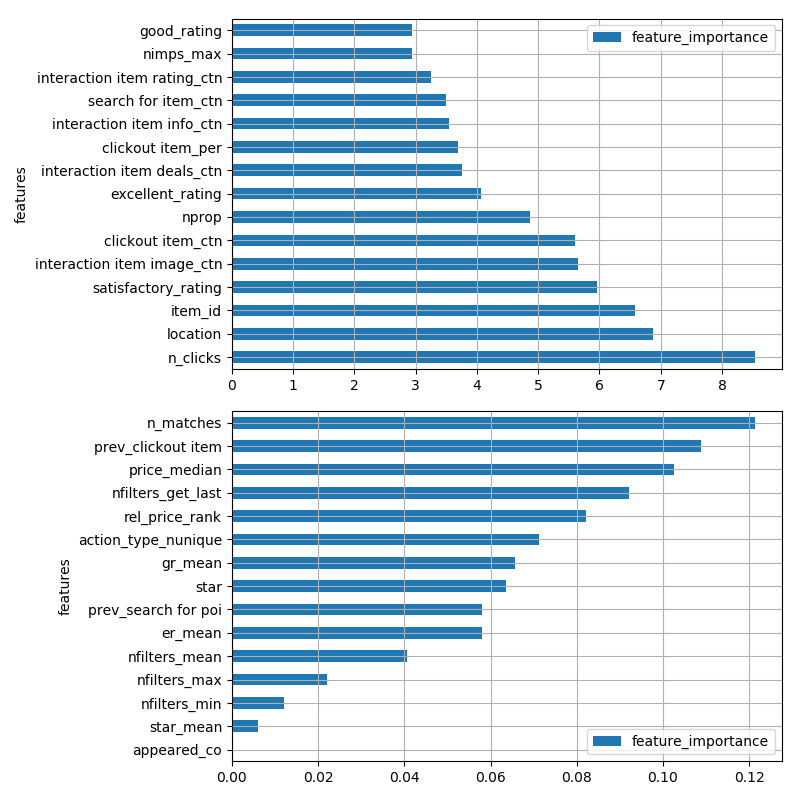
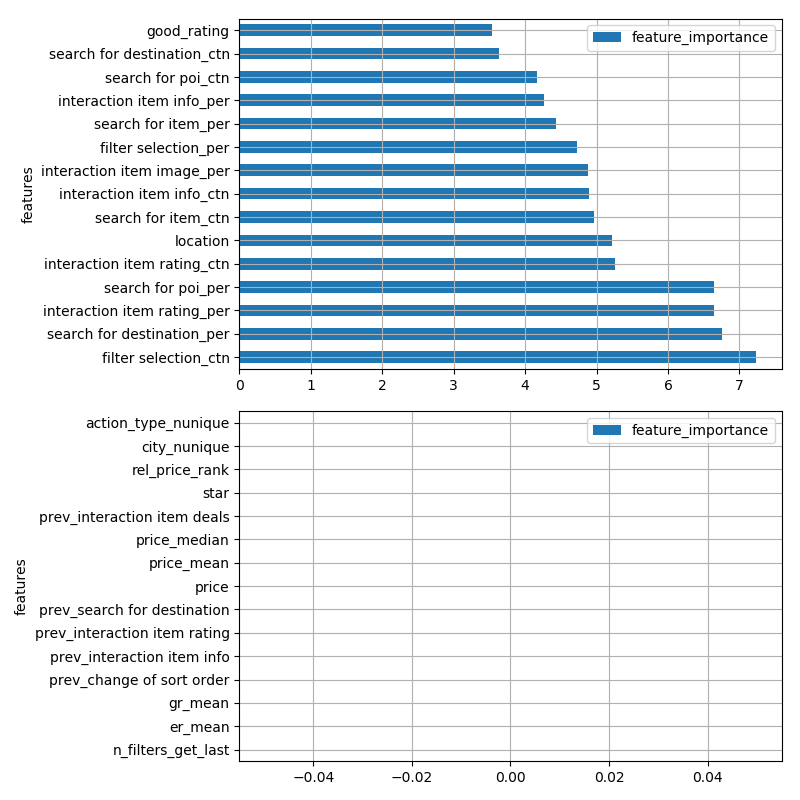
train

diff --git a/train.py b/train.py
@@ -108,6 +108,14 @@ def run_pipeline():
     fprint('Load train data')
     train = pd.read_hdf('./data/train.h5', 'train')
 
+    values = {'reference_second_last': -1, 'action_type_second_last': -1}
+    train.fillna(value=values, inplace=True)
+
+    # drop columns
+    # remove_cols = ['ts', 'clickout item_per']
+    # train.drop(remove_cols, axis=1, inplace=True)
+    del train['clickout item_per']
+
     train_val_split = 0.1
     # split out validation from the latest
     sort_ts = train.sort_values(by='ts')['ts']
@@ -118,13 +126,18 @@ def run_pipeline():
     val_mask = train.index.isin(val_sids)
     xtrain = train[~val_mask]
     xval = train[val_mask]
+    del xtrain['ts']
+    del xval['ts']
+
     fprint(f'xtrain shape: {xtrain.shape}')
     fprint(f'xval shape: {xval.shape}')
 
     # fprint('Load test')
     # xtest = pd.read_hdf('./data/test.h5', 'xtest')
     # fprint('categorizing features')
-    cat_fts = ['city_get_last', 'platform_get_last', 'device_get_last', 'item_id', 'location']
+    cat_fts = ['city_get_last', 'platform_get_last', 'device_get_last', 'item_id', 'location',
+               'reference_second_last', 'action_type_second_last']
+
     #
     # categorize(xtrain, xval, cat_fts, xtest)
 
@@ -139,7 +152,7 @@ def run_pipeline():
 
     fprint('Start training')
     device = 'GPU' if check_gpu() else 'CPU'
-    params = {'iterations': 300,
+    params = {'iterations': 1000,
               'learning_rate': 0.02,
               'depth': 8,
               'task_type': device}
